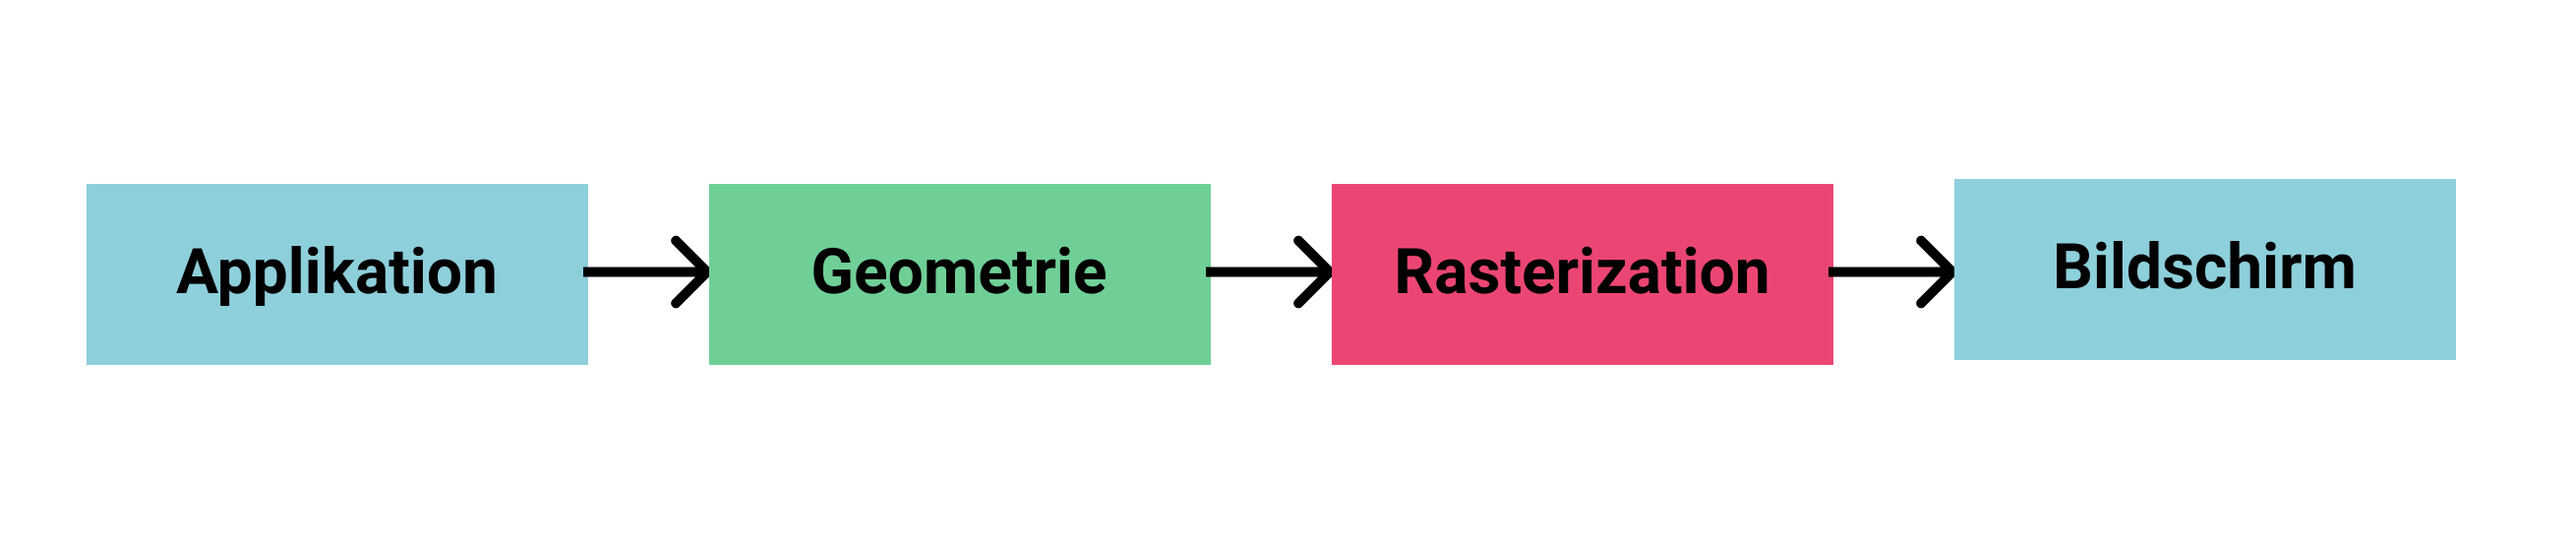
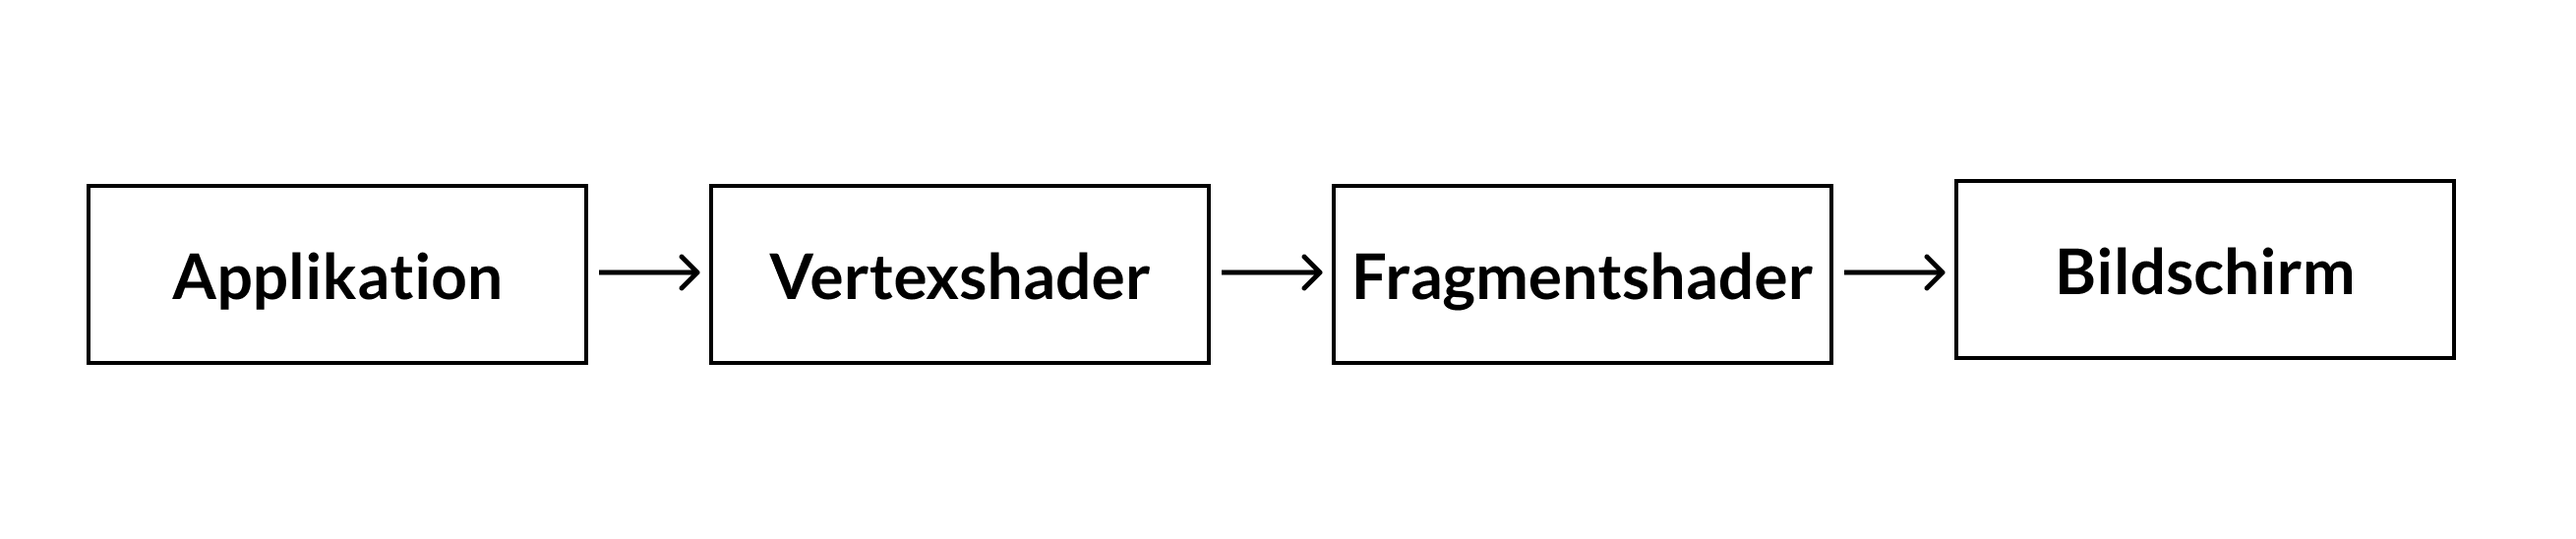
Extend docs (#115)
Extend graphics pipeline
Extend existing systems paragraph
Improve benchmark wording

Changed region(s): [[0.0309, 0.3102, 0.9588, 0.6825]]

diff --git a/documentation/report/parts/vorgehen_methoden.tex b/documentation/report/parts/vorgehen_methoden.tex
@@ -45,13 +45,13 @@ Unity sowie Unreal verfügen über umfangreiche LOD Systeme. Eine Analyse dieser
 
 \paragraph{Unreal}
 
-Unreal verfügt sowohl über ein DLOD System als auch über ein HLOD System. \cite{unrealProxyLod}
+Unreal verfügt sowohl über ein DLOD System als auch über ein HLOD System. Das HLOD Tool zeichnet sich insbesondere dadurch aus, dass es die verschiedenen HLOD Artefakte automatisch generieren kann. Dies ermöglicht es, komplexe Strukturen direkt innerhalb von Unreal zu kombinieren. \cite{unrealProxyLod}
 
 \paragraph{Unity}
 
-Unity verfügt über ein DLOD System.
+Unity verfügt über ein DLOD System, welches es erlaubt LOD Artefakte manuell zu definieren.
+Innerhalb der Unity Community gibt es eine Bibliothek für das automatische Generieren von Artefakten, welche für LOD verwendet werden können. \cite{unityMeshSimplification}
 Ansätze für ein HLOD System sind vorhanden, wurden jedoch nicht offiziell in Unity integriert. \cite{unityAutoLod}
-Innerhalb der Unity Community gibt es eine Bibliothek für das Generieren von Artefakten, welche für LOD verwendet werden können. \cite{unityMeshSimplification}
 
 \section{Surface Simplification Algorithmus}
 \label{chap:surfaceSimplificationAlgorithm}
@@ -80,12 +80,11 @@ Die Lösung soll in eine wiederverwendbare und konfigurierbare Pipeline integrie
 In der Webentwicklung ist es üblich, über \fgls{CLI}{Command Line Interface – Kommandozeile} Arbeitsschritte zu automatisieren. Es soll demnach ein \e{\gls{CLI}} erstellt und auf \fgls{npm}{Node Package Manager} öffentlich zugänglich gemacht werden, welches nahtlos in den Entwicklungsablauf integriert werden kann. Über eine Konfiguration soll angegeben werden können, wo nach den \e{.glTF} Dateien gesucht, wie die Output-Dateien benennt und in welchem Modus das Tool gestartet werden soll. Ebenso werden Algorithmus-Einstellungen in dieser Konfiguration gesetzt werden können. Es soll einfach zu bedienen, gut dokumentiert und gut gewählte Standardeinstellungen haben. Zudem soll das Tool im einmal Modus laufen können oder kontinuierlich sich ändernde Dateien neu optimieren.
 
 \section{Nutzen LOD}
-Um den Nutzen von LOD quantifizieren zu können, wird in einer ersten Phase ein Benchmark aufgestellt.
-Ziel ist es, das Laufzeitverhalten unter Einsatz eines optimierten Modells zu analysieren und somit den maximal möglichen Einfluss von LOD auf die Leistung klassifizieren zu können.
+Um den Nutzen von LOD quantifizieren zu können, müssen verschiedene Aspekte berücksichtigt werden.
 
 \subsection{Aspekte für Nutzen}
 
-Der Nutzen eines Systems definiert sich durch eine Vielzahl von Aspekte welche in verschiedenen Phasen aufgeteilt werden können. Die verschieden für die Entwicklung von Webanwendungen relevanten Aspekte werden im folgenden Abschnitt erläutert. Selbstverständlich kann nicht auf alle Aspekte eingegangen werden, es werden lediglich die relevantesten berücksichtigt.
+Der Nutzen eines Systems definiert sich durch eine Vielzahl von Aspekte, welche in verschiedenen Phasen aufgeteilt werden können. Die verschieden für die Entwicklung von Webanwendungen relevanten Aspekte werden im folgenden Abschnitt erläutert. Es werden hierbei lediglich die Relevantesten berücksichtigt.
 
 \paragraph{Entwicklungszeit}
 
@@ -106,16 +105,18 @@ Entscheidend ist, unabhängig von der Applikation, das Laufzeitverhalten. Eine A
 Das Laufzeitverhalten wird durch eine Vielzahl von Aspekten beeinflusst.
 Angestrebt werden grundsätzlich immer 60 \fgls{FPS}{Frames per Second. Bilder pro Sekunde. Gängige Art, die Performanz der \gls{Rendering Engine} zu messen}. Wenn eine bestimmte Szenerie diese 60 \e{\gls{FPS}} nicht erreicht ist ein Performanzproblem vorhanden.
 
-\paragraph{Benchmarkaspekte}
+\paragraph{Berücksichtigung der Aspekte}
 In dieser Arbeit wird ein hoher Wert darauf gelegt, dass die Entwicklungszeit möglichst geringfügig verändert wird. Zudem werden, wo möglich, Empfehlungen getätigt um die Downloadgrösse möglichst marginal zu verändern.
 Die somit primären Aspekte für die Beurteilung sind die Auswirkungen auf das Laufzeitverhalten.
+
+Um diese Beurteilung tätigen zu können, wird im Folgenden ein Benchmark definiert. Ziel ist es, das Laufzeitverhalten zu analysieren und somit den maximal möglichen Einfluss von LOD auf die Leistung klassifizieren zu können. Hierbei werden verschiedene Aspekte betrachtet.
 
 \subsection{Mögliche Ansätze}
 
 Verschiedene Varianten können gewählt werden um den Nutzen aufzuzeigen. Die verschiedenen in Betracht gezogenen Ansätze werden in diesem Abschnitt erläutert.
 
 \paragraph{Modellbetrachtung}
-Grundsätzlich kann der Nutzen einfach beziffert werden indem die Kosten zum Rendering eines Modelles berechnet werden. So können die Kosten in benutzter GPU Ressourcen gemessen werden indem man die Kosten eines spezifischen \e{Draw Calls} misst. Diese Art von Benchmark ist relativ einfach zu implementieren und liefert genaue Resultate. Die Auswirkungen von Nebeneffekten können beinahe vollständig negiert werden.
+Grundsätzlich kann der Nutzen beziffert werden indem die Kosten zum Rendering eines Modelles berechnet werden. So können die Kosten in benutzter GPU Ressourcen gemessen werden indem man die Kosten eines spezifischen \e{Draw Calls} misst. Diese Art von Benchmark ist relativ einfach zu implementieren und liefert genaue Resultate. Die Auswirkungen von Nebeneffekten können beinahe vollständig negiert werden.
 Sinnvoll wäre es das Modell in konstanter Distanz zur Kamera um zwei Achsen drehen zu lassen und die Messung solange durchzuführen, bis eine ganze Umdrehung stattgefunden hat.
 Der primäre Nachteil bei dieser Variante liegt an der Aussagekraft. Die einzige belegte Aussage ist, dass es möglich ist Performanzeinsparungen mit Vereinfachungen zu erhalten. Dies dient jedoch nicht als Beleg, dass der Einsatz von LOD Artefakten Performanzengpässe lösen kann.
 
@@ -123,8 +124,8 @@ Der primäre Nachteil bei dieser Variante liegt an der Aussagekraft. Die einzige
 Bei diesem Ansatz wird eine gegebene Szenerie möglichst geringfügig angepasst und die Auswirkungen auf die Performanz verglichen.
 Wenn die unoptimierte Variante 60 \e{\gls{FPS}} erreicht oder gar übersteigt, ist eine Optimierung nicht notwendig. Somit muss eine Szenerie gewählt werden, welche diesen Wert unterschreitet. 
 Ziel ist es dann die LOD Artefakte in dieselbe Szenerie zu integrieren und die \e{FPS} zu steigern. Ziel der Arbeit ist es, ein System zu entwickeln, das für Szenarien unter 60 \e{\gls{FPS}} diese erhöht und im Idealfall auf ebendiesen Wert hebt.
-Eine solche Szenerie soll grundsätzlich Modelle sowohl nah als auch in grosser Distanz zeigen. Ein Beispiel für eine solche Szenerie ist eine Visualisierung aus  Vogelperspektive mit Zoom Verhalten.
-Die Aussagekraft eines solchen Tests ist ausreichend um einen Beleg für den positiven Nutzen des Systems zu haben.
+Eine solche Szenerie soll grundsätzlich Modelle sowohl nah als auch in grosser Distanz zeigen. Ein Beispiel für eine solche Szenerie ist eine Visualisierung aus der Vogelperspektive mit Zoomverhalten.
+Im Vergleich zur Modellbetrachtung ist die Aussagekraft eines solchen Tests ausreichend, um einen Beleg für den positiven Nutzen des Systems zu haben. Sollte es nicht möglich sein, die \e{FPS} zu steigern, so liefert der Einsatz von LOD keinen nachweisbaren Nutzen.
 
-\subparagraph{Vergleichbare Arbeiten}
+\subsection{Vergleichbare Arbeiten}
 Eine unabhängige Arbeit definierte 2017 einen vergleichbaren Benchmark um die Performanz von Three.js und Babylon.js in einem spezifischen Anwendungsgebiet zu vergleichen. Der Benchmark entwickelte vergleichbare Szenerien und vergleicht die Ressourcennutzung der beiden Varianten. \cite{performanceComparisonBabylonThreejs}

diff --git a/documentation/report/parts/theoretische_grundlagen.tex b/documentation/report/parts/theoretische_grundlagen.tex
@@ -191,27 +191,66 @@ In Abbildung \ref{fig:transformationVertexRemovalOriginal} wird der zentrale Ver
   \label{fig:transformationVertexRemoval}
 \end{figure}
 
-\section{Graphics Pipeline}
-Die Graphics Pipeline ist zuständig um eine definierte Szene auf einem Ausgabegerät zu visualisieren. Die verschiedenen Schritte werden im folgenden Abschnitt kurz erläutert. Es wird dabei ein simples 3D-Modell auf einen normalen 2D Display visualisiert. Die verschiedenen Schritte sind in Abbildung \ref{fig:renderingPipelineOverview} aufgezeigt.
+\section{Grafikpipeline}
+Die Grafikpipeline ist zuständig um eine definierte Szene auf einem Ausgabegerät zu visualisieren. Die verschiedenen Schritte werden im folgenden Abschnitt kurz erläutert. Es wird dabei ein simples 3D-Modell auf einem 2D-Display, wie zum Beispiel einem Monitor, visualisiert. Die verschiedenen Schritte sind in Abbildung \ref{fig:renderingPipelineOverview} aufgezeigt.
 
 \begin{figure}[H]
   \centering
   \includegraphics[width=0.8\columnwidth]{grundlagen/pipeline/graphics-pipeline.png}
-  \caption{Schritte einer Graphics Pipeline}
+  \caption{Schritte einer Realtime Rendering Pipeline}
   \label{fig:renderingPipelineOverview}
 \end{figure}
 
 \paragraph{Applikation}
-Im ersten Schritt wird die Szenerie aufbereitet, Modelle in den Arbeitsspeicher geladen, Positionen und Rotationen der Modelle definiert. Diese Schritte werden auf der CPU durchgeführt.
+Im ersten Schritt wird die Szenerie aufbereitet, Modelle in den Arbeitsspeicher geladen, Positionen und Rotationen der Modelle definiert. Diese Schritte werden auf der CPU durchgeführt. Ein Beispiel für das aufsetzen eines einfachen \e{Triangles} bestehnd aus drei \e{Vertices} ist in Abbildung \ref{fig:geometryDefinition} ersichtlich.
 
-\paragraph{Geometrie}
-Anschliessend werden die Definitionen an die Geometrie Pipeline geliefert. Diese ist zuständig um die Modelle auszurichten, die Beleuchtung zu bestimmen und die 2D Projektion vorzunehmen.
+\begin{figure}[H]
+\begin{lstlisting}
+const vertices = new Float32Array([
+  -1, 1, 0, // vertex 0
+  -1, -1, 0, // vertex 1
+  1, -1, 0 // vertex 2
+]);
 
-\paragraph{Rasterization}
-Im letzten Schritt werden kontinuierliche Objekte zu diskreten Fragmenten verarbeitet. Der Anwender hat hierbei in vielen Engines die Möglichkeit, den Prozess mithilfe eines \fgls{Fragmentshaders}{Generiert Farbdefinition für ein einzelnes Pixel mit zugehörigem Tiefenwert} anzupassen.
+const indices = new Uint16Array(
+  [0, 1, 2] // triangle 0
+);
+\end{lstlisting}
+\caption{Definition eines Triangles}
+\label{fig:geometryDefinition}
+\end{figure}
+
+\paragraph{Vertexshader}
+Anschliessend werden die Daten an die GPU gesendet. Der erste Schritt ist der sogenannte Vertexshader. Auftrag des Vertexshaders ist es, die \e{Vertices} zu transformieren. Die Modelle werden ausgerichtet, die Beleuchtung bestimmt und die 2D-Projektion vorgenommen. Ein Beispiel für einen simplen Vertexhsader ist in Abbildung \ref{fig:vertexShader} ersichtlich.
+
+\begin{figure}[H]
+\begin{lstlisting}
+attribute vec3 coordinates;
+
+void main(void) {
+  gl_Position = vec4(coordinates, 1.0);
+}
+\end{lstlisting}
+\caption{Vertexshader für die Definition eines Punktes}
+\label{fig:vertexShader}
+\end{figure}
+
+\paragraph{Fragmentshader}
+Durch die Rasterisierung werden kontinuierliche Objekte zu diskreten Fragmenten verarbeitet. Der Fragmentshader generiert die Farbdefinitionen für die einzelnen Pixel. Ein einfaches Beispiel ist in Abbildung \ref{fig:fragmentShader} ersichtlich.
+
+\begin{figure}[H]
+\begin{lstlisting}
+void main(void) {
+  gl_FragColor = vec4(0.0, 0.0, 0.0, 1.0);
+}
+\end{lstlisting}
+\caption{Fragmentshader für das definieren von Farbwerten}
+\label{fig:fragmentShader}
+\end{figure}
+
 
 \paragraph{Bildschirm}
-Am Schluss wird das vom Rasterization Prozess generierte Bild auf dem Bildschirm dargestellt.
+Am Schluss wird das vom Fragmentshader generierte Bild auf dem Bildschirm dargestellt.
 
 \section{Performanzoptimierung}
 Visualisierungen können zu komplex werden, um jederzeit performant und interaktiv gerendert zu werden.
@@ -293,6 +332,7 @@ Der Hauptnachteil liegt darin, dass hierfür signifikante Anpassungen am Scene G
 \subsection{Vergleich Algorithmen}
 \label{chap:lodAlgorithmComparison}
 
+Ziel des Algorithmus ist es eine gegebene geometrische Struktur mit möglichst wenig \e{Triangles} so genau wie möglich zu approximieren.
 Diese Art von Problem ist in der Literatur unter anderem als \e{Surface Simplification}, polygonale Simplifizierung, geometrische Simplifizierung oder Mesh Reduzierung bekannt.
 Grundsätzlich kann man die verschiedenen Algorithmen in Kategorien einteilen.
 Im folgenden Abschnitt wird auf die Grundidee der verschiedenen Kategorien eingegangen.
